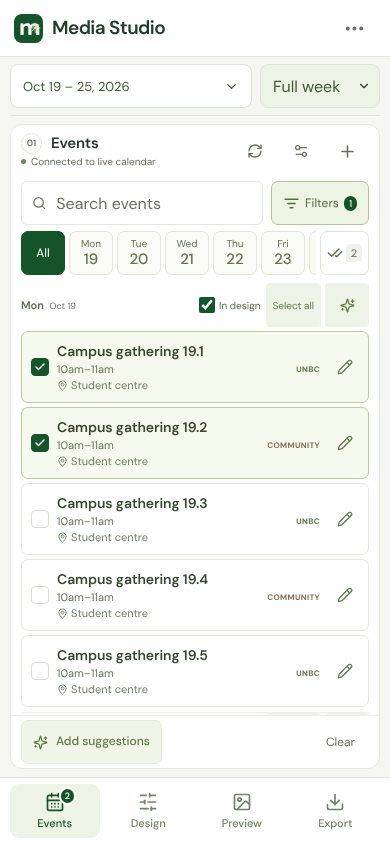
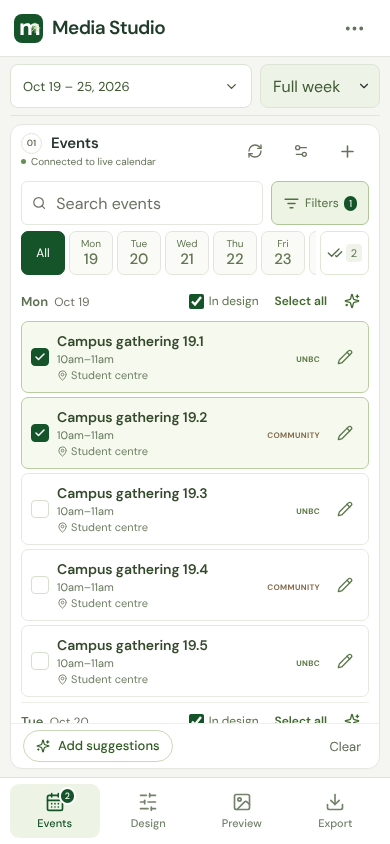
Slim down mobile day controls and the event list footer
Day headers use text-style In design, Select all, and Suggest controls
at 30px instead of filled 44px boxes, and the footer uses an outlined
Add suggestions pill and a light Clear link. Invisible padding keeps the
touch areas generous without the visual weight.

Claude-Session: https://claude.ai/code/session_017XFCahmGfBXvAUJt6zFkBP

Changed region(s): [[0.0308, 0.3081, 0.9538, 0.8934], [0.7077, 0.8318, 0.9231, 0.8934], [0.4615, 0.8318, 0.6462, 0.8626]]

diff --git a/src/mobile.css b/src/mobile.css
@@ -322,3 +322,24 @@
   .daily-date-select { font-size: 16px; padding: 0 6px; }
   .package-issue { font-size: 12px; }
 }
+
+/* Lighter day headers and list footer: smaller visuals, touch areas kept with invisible padding. */
+@media (max-width: 760px), (max-width: 1000px) and (max-height: 500px) {
+  .day-group-controls { min-height: 36px; margin-bottom: 2px; gap: 2px; }
+  .day-group-heading { min-height: 36px; font-size: 13px; }
+  .day-group-heading > span > span { font-size: 12px; }
+  .day-include { min-height: 30px; font-size: 12px; gap: 5px; padding: 0 6px; position: relative; }
+  .day-include input { width: 15px; height: 15px; }
+  .day-selection-tools { gap: 0; }
+  .day-selection-tools > button { position: relative; min-height: 30px; padding: 0 8px; font-size: 12px; font-weight: 600; background: none; border-radius: 6px; color: #3f6a2c; }
+  .day-selection-tools > button:last-child { width: 34px; padding: 0; }
+  .day-selection-tools > button:last-child svg { width: 16px; height: 16px; }
+  .day-selection-tools > button:active:not(:disabled) { background: #edf3e6; }
+  .day-include, .day-selection-tools > button { z-index: 1; }
+  .day-include::after, .day-selection-tools > button::after,
+  .events-footer .button::after, .events-footer > .text-button::after { content: ''; position: absolute; inset: -7px 0; }
+  .events-footer { padding: 6px 12px; gap: 8px; }
+  .events-footer .button { position: relative; min-height: 32px; padding: 0 12px; font-size: 13px; border-radius: 999px; background: #fff; border: 1px solid #c9d9b7; color: #2f5a22; }
+  .events-footer .button svg { width: 14px; height: 14px; }
+  .events-footer > .text-button { position: relative; min-height: 32px; padding: 0 6px; font-size: 13px; color: #5d6b55; }
+}
